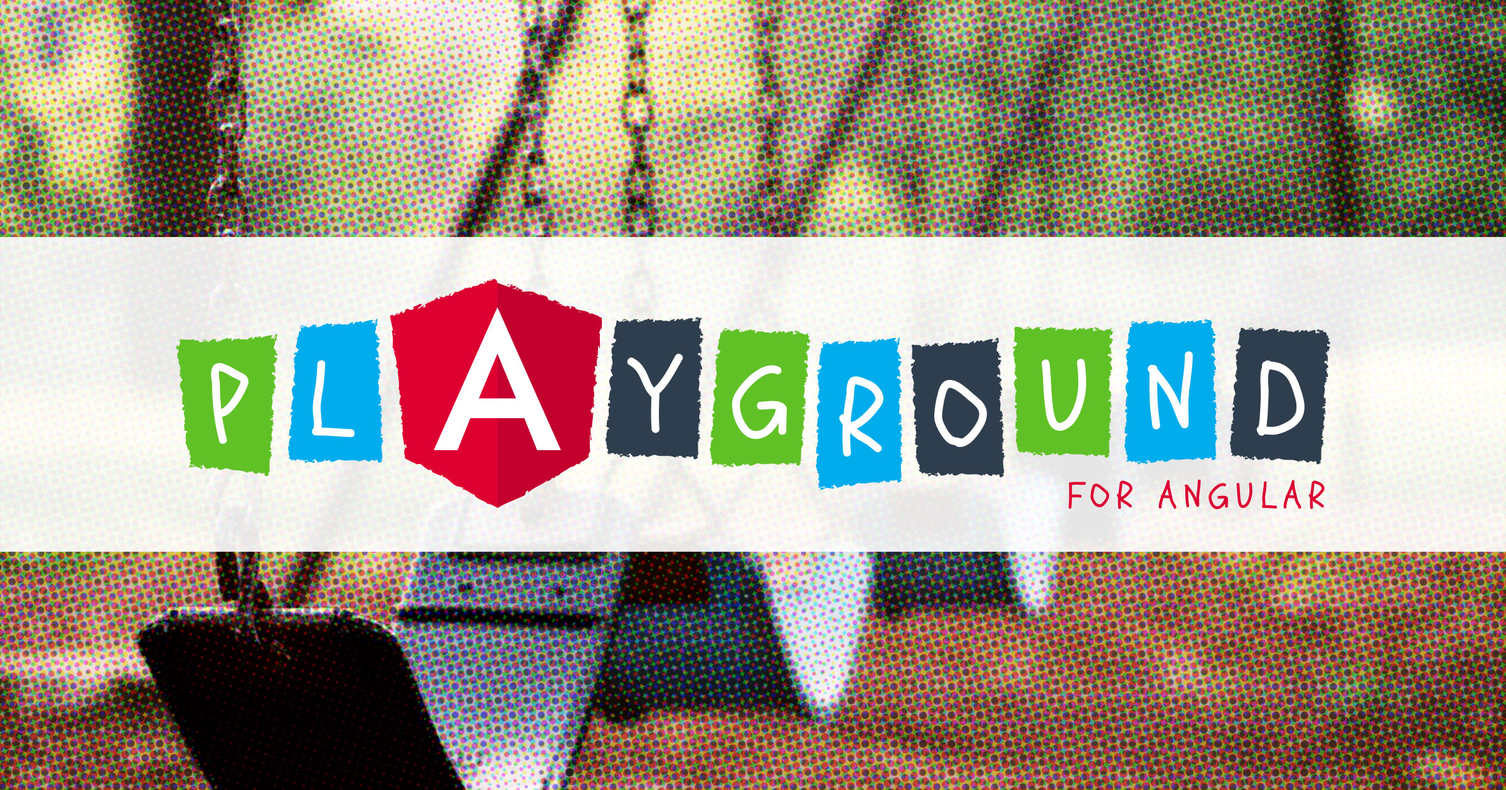
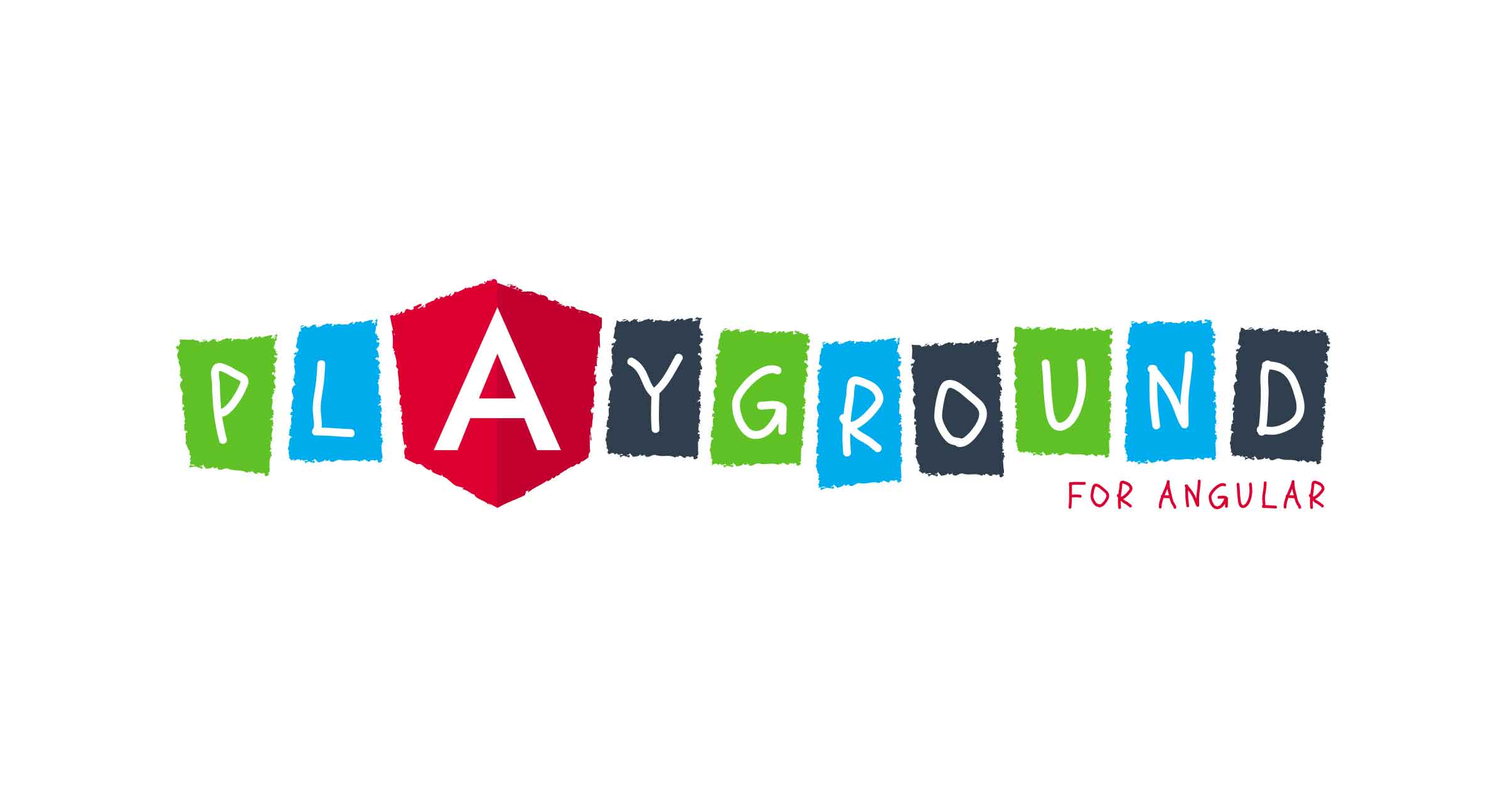
update image

diff --git a/src/index.html b/src/index.html
@@ -19,7 +19,7 @@
   <meta property="og:url" content="http://www.angularplayground.it">
   <meta property="og:title" content="Playground for Angular">
   <meta property="og:description" content="A drop in entry module for your app to develop Angular components, directives and pipes in isolation">
-  <meta property="og:image" content="http://www.angularplayground.it/assets/social/angular-playground-open-graph.gif">
+  <meta property="og:image" content="http://www.angularplayground.it/assets/social/angular-playground-open-graph.jpg">
   <meta property="og:site_name" content="Playground for Angular Documentation">
   <link rel="icon" type="image/x-icon" href="favicon.ico">
 </head>
